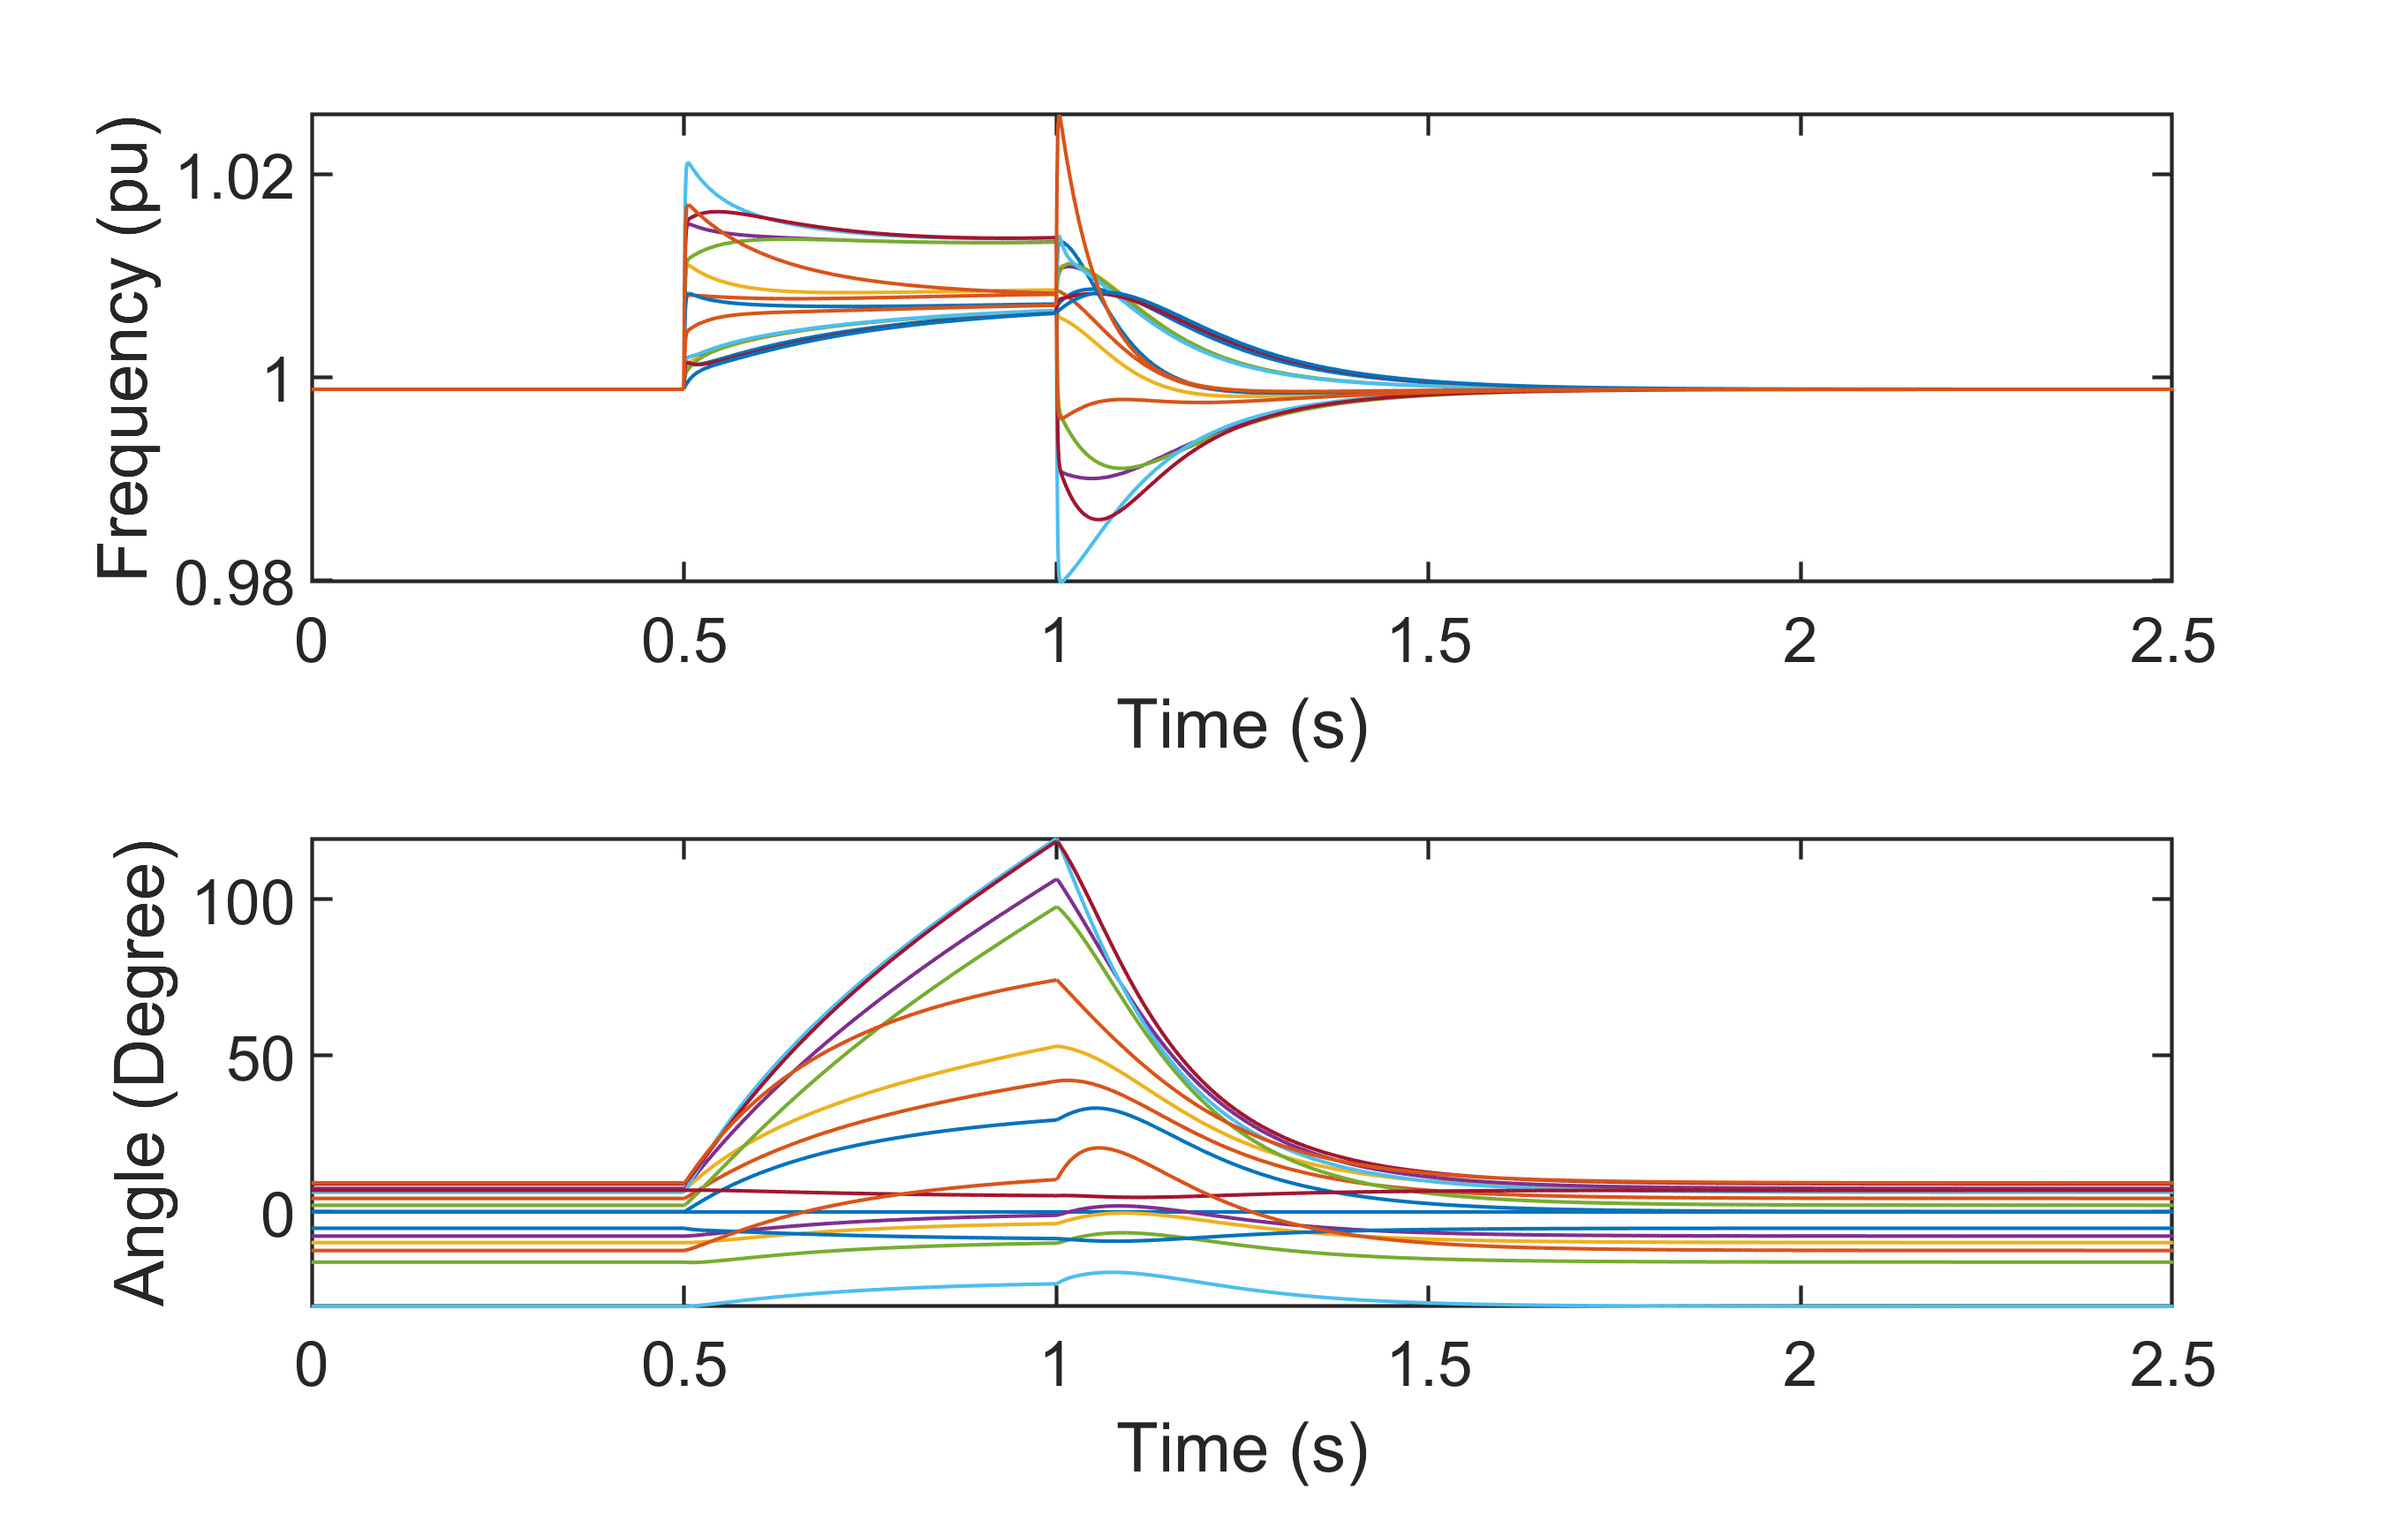
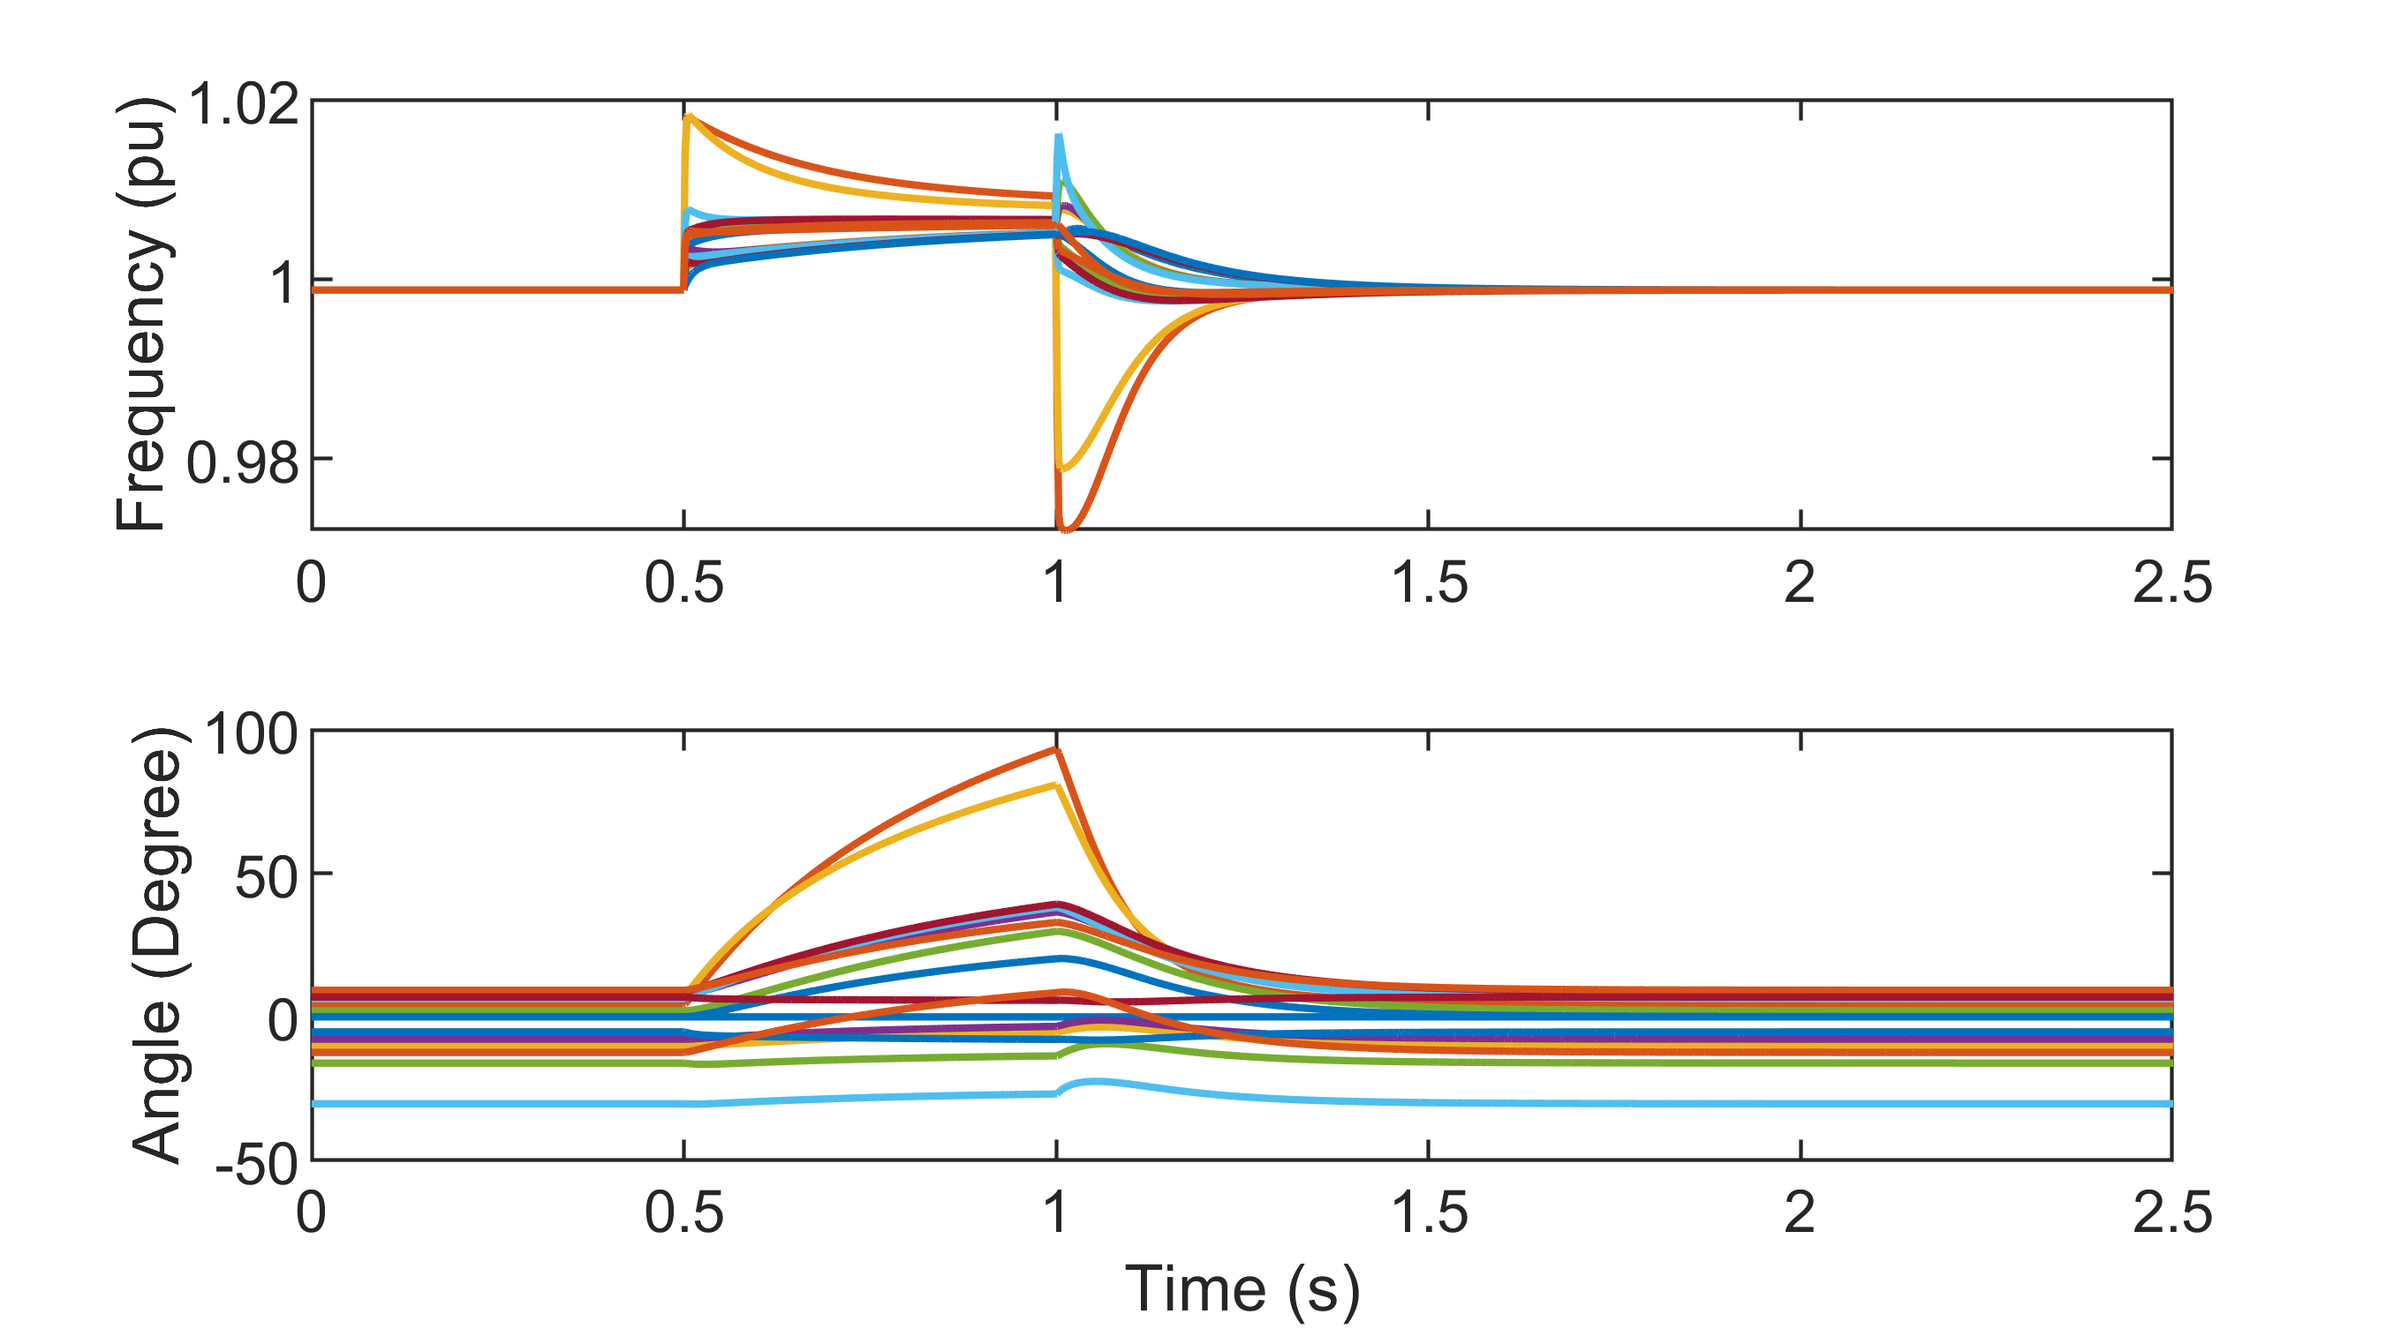
Add sim results

diff --git a/+SimplusGT/+Synchron/Simulation.m b/+SimplusGT/+Synchron/Simulation.m
@@ -26,14 +26,16 @@ switch 2
         x_out1 = x_out;
         clear('t_out','x_out');
 
-        TimeRange = [10, 10.5];
+        TimeRange = [10, 10.16667];
+        % TimeRange = [10, 10.5];
         x0 = transpose(x_out1(end,:));
         [t_out,x_out] = ode45(@(t,x) SimplusGT.Synchron.StateEqu(x,GAMMAFault,gammaFault,Hmat,Dmat,Wref,Wbase),TimeRange,x0,options);
         t_out2 = t_out;
         x_out2 = x_out;
         clear('t_out','x_out');
 
-        TimeRange = [10.5, 12];
+        TimeRange = [10.16667, 12];
+        % TimeRange = [10.5, 12];
         x0 = transpose(x_out2(end,:));
         [t_out,x_out] = ode45(@(t,x) SimplusGT.Synchron.StateEqu(x,GAMMA,gamma,Hmat,Dmat,Wref,Wbase),TimeRange,x0,options);
         t_out3 = t_out;
@@ -76,20 +78,24 @@ omega_out = omega_out/Wbase;
 TimeShift = 9.5;
 TimeLimit = [0,2.5];
 
+LineWidth = 1;
+
 FigN = FigN + 1;
 figure(FigN)
-FigSize = [0.1 0.1 0.35 0.5];
+FigSize = [0.1 0.1 0.35 0.45];
 set(gcf,'units','normalized','outerposition',FigSize);
 subplot(2,1,1)
-plot(t_out-TimeShift,omega_out);
+plot(t_out-TimeShift,omega_out,'LineWidth',LineWidth);
 xlim(TimeLimit);
 ylabel('Frequency (pu)')
-xlabel('Time (s)')
+% xlabel('Time (s)')
+% ylim([0.965,1.03])
 subplot(2,1,2)
-plot(t_out-TimeShift,theta_out);
+plot(t_out-TimeShift,theta_out,'LineWidth',LineWidth);
 xlim(TimeLimit);
 ylabel('Angle (Degree)')
 xlabel('Time (s)')
+% ylim([-50,500])
 % SimplusGT.mtit('Time-domain simulation');
 
 % Notes:

diff --git a/UserMain.m b/UserMain.m
@@ -51,9 +51,9 @@ ConvertExcelFile2JsonFile();
 
 % InputData = SimplusGT.JsonDecoder('NETS_NYPS_68Bus.json');
 % InputData = SimplusGT.JsonDecoder('NETS_NYPS_68Bus_LowDamping.json');
-InputData = SimplusGT.JsonDecoder('NETS_NYPS_68Bus_HighDamping.json');
+% InputData = SimplusGT.JsonDecoder('NETS_NYPS_68Bus_HighDamping.json');
 % InputData = SimplusGT.JsonDecoder('NETS_NYPS_68Bus_LowDamping_SingleSgCase.json');
-% InputData = SimplusGT.JsonDecoder('NETS_NYPS_68Bus_HighDamping_SingleSgCase.json');
+InputData = SimplusGT.JsonDecoder('NETS_NYPS_68Bus_HighDamping_SingleSgCase.json');
 
 %
 % Pure dc power system examples:

diff --git a/+SimplusGT/+Synchron/GetListLineFault.m b/+SimplusGT/+Synchron/GetListLineFault.m
@@ -25,7 +25,7 @@ IndexBranchTo = find(ListLine(:,2) == NfaultBus);
 % The fault can not be a pure short-circuit because the modeling will
 % report an error.
 %             | From | To | R | X | C | G | T | AreaType
-ListLineAdd = [NfaultBus, NfaultBus, inf, inf, 0, 1e9, 1, FaultAreaType];
+ListLineAdd = [NfaultBus, NfaultBus, inf, inf, 0, 1e20, 1, FaultAreaType];
 
 % Add the fault branch into the ListLine Matrix
 if isempty(Index)

diff --git a/+SimplusGT/+Synchron/MainSynchron.m b/+SimplusGT/+Synchron/MainSynchron.m
@@ -15,9 +15,8 @@ w_PLL_LPF                       = 2*pi*100;     % Bandwidth of the PLL LPF
 Enable_Plot_Eigenvalue          = 1;    % 1/0: Plot eigenvalues.
 
 %% Fault settings
-% NfaultBus = 1;
-% NfaultBus = 2;
-NfaultBus = 37;
+NfaultBus = 2;
+% NfaultBus = 60;
 
 
 %% Update power flow
